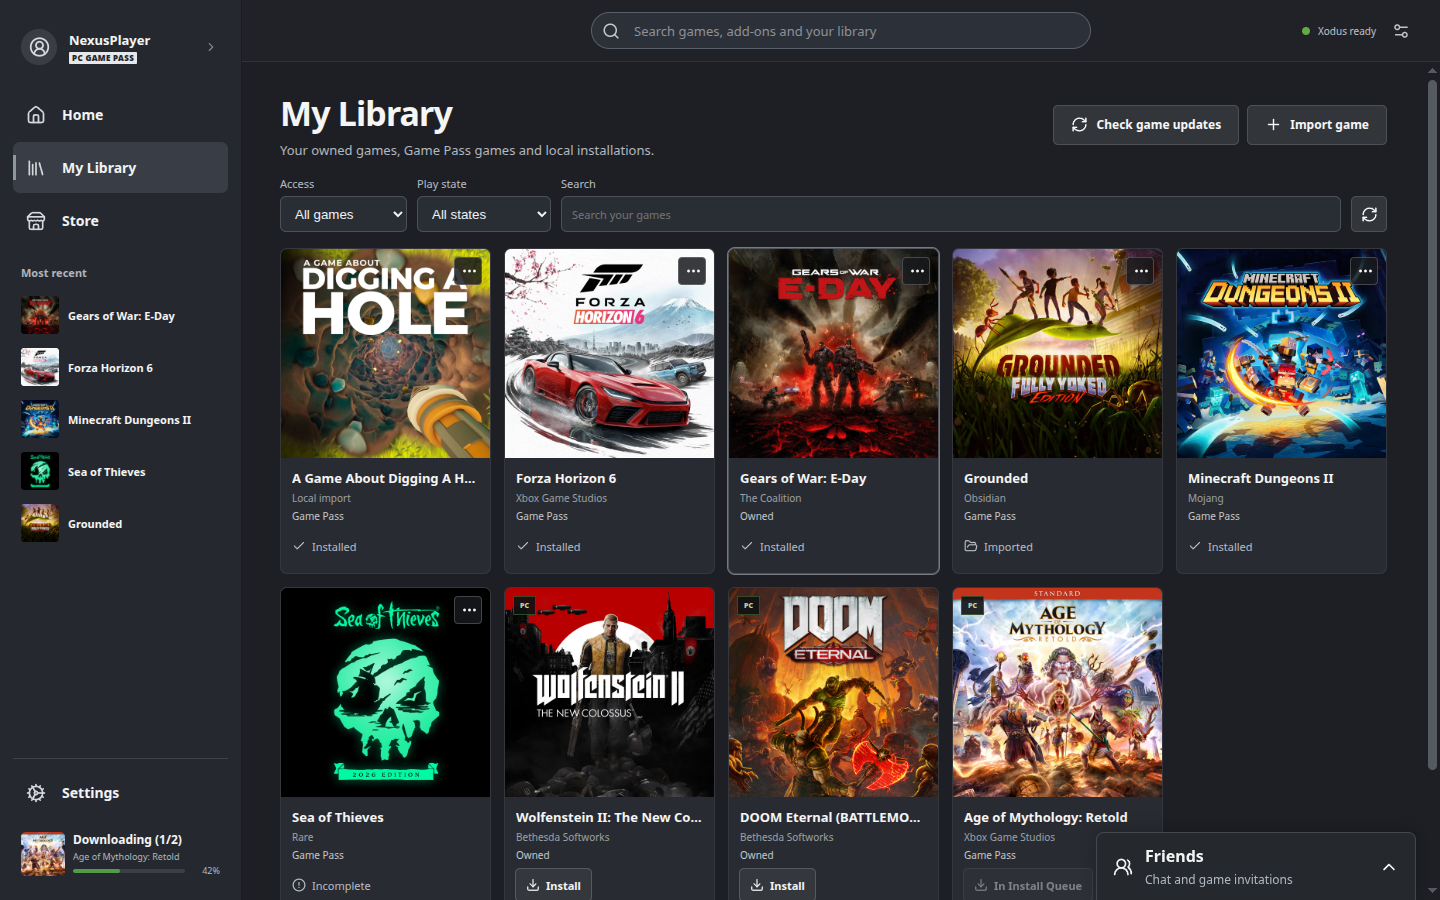
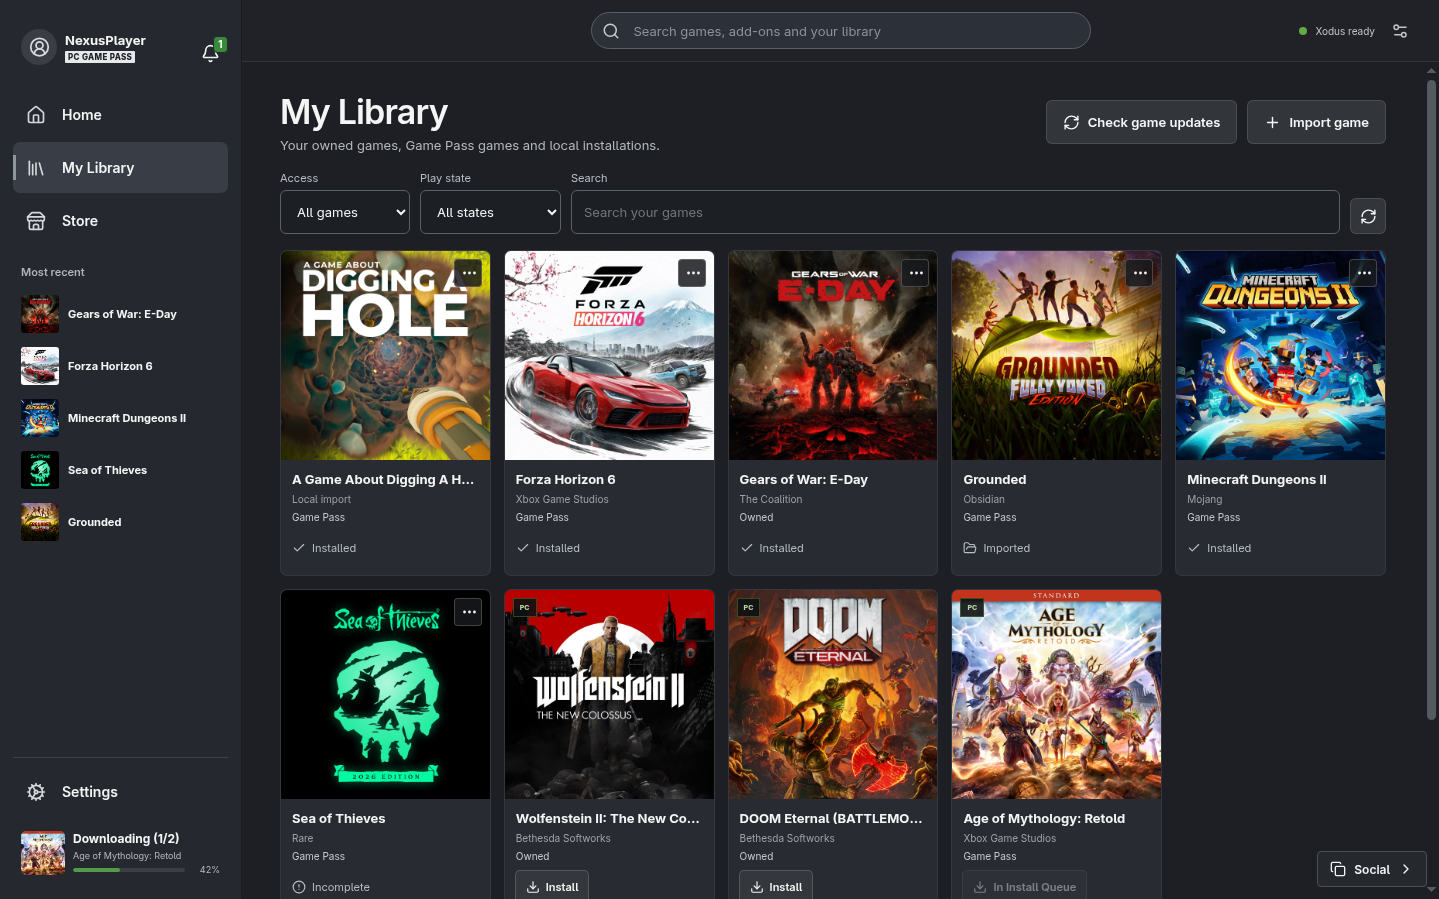
docs: refresh launcher demo and screenshots from current UI

diff --git a/README.md b/README.md
@@ -26,7 +26,7 @@ Browse the Store, install games you own or can access through a subscription,
 and play with one shared runtime. Xbox sign-in and cloud saves are available
 for supported games.
 
-![Xodus Nexus demo](docs/screenshots/demo.gif?v=bb1bc859)
+![Xodus Nexus demo](docs/screenshots/demo.gif?v=dc773ded)
 
 *Preview with sample account data.*
 
@@ -248,6 +248,8 @@ not confirm gameplay or online support.
 
 [Library](docs/screenshots/demo-library.png) ·
 [Store](docs/screenshots/demo-store.png) ·
+[Social](docs/screenshots/demo-social.png) ·
+[Chat](docs/screenshots/demo-chat.png) ·
 [Install queue](docs/screenshots/demo-downloads.png) ·
 [Settings](docs/screenshots/demo-settings.png)
 
